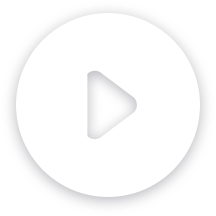
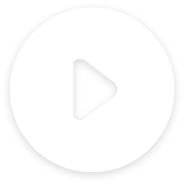
视频播放按钮调整成64rpx

diff --git a/src/pages/opus/videoplay.vue b/src/pages/opus/videoplay.vue
@@ -5,7 +5,7 @@
         <view v-if="index == pageData.current" @click="handleVideo(index)" class="w-screen h-screen">
           <video autoplay class="w-screen h-screen fixed" :id="'video'+index" title="产品介绍" :src="item"  loop  :controls="false" :show-center-play-btn="true" :show-play-btn="false" :show-fullscreen-btn="false" @error="videoErrorCallback">
           </video>
-          <view v-if="pageData.status == 1" class="icon_play w-full h-full absolute w-50 h-50"><image class="w-50 h-50" src="@/static/opus/icon_play.png"/></view>
+          <view v-if="pageData.status == 1" class="icon_play w-full h-full absolute w-50 h-50"><image class="w-64 h-64" src="@/static/opus/icon_play.png"/></view>
         </view>
       </swiper-item>
     </swiper>
@@ -75,7 +75,7 @@ const videoErrorCallback = ()=>{
 
 <style lang="scss" scoped>
 .icon_play {
-  top:calc(50% - 50rpx);
-  left:calc(50% - 50rpx);
+  top:calc(50% - 64rpx);
+  left:calc(50% - 64rpx);
 }
 </style>

diff --git a/src/pages/opus/components/opusContentInfo.vue b/src/pages/opus/components/opusContentInfo.vue
@@ -18,7 +18,7 @@
                 <view v-if="element.name" class="bg-[rgba(0,0,0,0.5)] absolute left-5 bottom-5 px-10 text-white text-12 rounded">
                   <uni-icons type="location-filled" size="16"></uni-icons>{{element.name}} {{computedLocation(element.x,element.y)}}<!--(距您 {{element.name}})-->
                 </view>
-                <view class="icon_play w-full h-full absolute w-50 h-50"><image class="w-50 h-50" src="@/static/opus/icon_play.png"/></view>
+                <view class="icon_play w-full h-full absolute w-50 h-50"><image class="w-64 h-64" src="@/static/opus/icon_play.png"/></view>
               </view>
             </view>
             <view v-if="element.itemType == 4">
@@ -85,8 +85,8 @@ const computedLocation = computed({
 <style scoped lang="scss">
 .items {
   .icon_play {
-    top:calc(50% - 50rpx);
-    left:calc(50% - 50rpx);
+    top:calc(50% - 64rpx);
+    left:calc(50% - 64rpx);
   }
 }
 </style>

diff --git a/src/pages/safeguard/safeguarddetail.vue b/src/pages/safeguard/safeguarddetail.vue
@@ -30,7 +30,7 @@
       <text>现场视频：</text>
       <view class="relative" v-for="(item,index) in pageData.data.video" :key="index" @click="previewMedia(item.address)">
         <image :src="item.cover" class="rounded-8 iconplayphoto" mode="widthFix"/>
-        <view class="icon_play w-full h-full absolute w-50 h-50"><image class="w-50 h-50" src="@/static/opus/icon_play.png"/></view>
+        <view class="icon_play w-full h-full absolute w-50 h-50"><image class="w-64 h-64" src="@/static/opus/icon_play.png"/></view>
       </view>
     </view>
     <view class="box">
@@ -192,8 +192,8 @@ const playAudio = (type,item) =>{
       left:0;
       image{
         position: absolute;
-        top:calc(50% - 50rpx);
-        left:calc(50% - 50rpx);
+        top:calc(50% - 64rpx);
+        left:calc(50% - 64rpx);
       }
     }
     .audio-box{

diff --git a/src/components/index/dtVideo.vue b/src/components/index/dtVideo.vue
@@ -6,7 +6,7 @@
 					<video autoplay class="w-screen h-screen fixed" :id="'video' + index" :src="item.cover.content" loop :controls="false" :show-center-play-btn="true" :show-play-btn="false" :show-fullscreen-btn="false" @error="videoErrorCallback">
 					</video>
 					<view v-if="pageData.status == 1" class="icon_play w-full h-full absolute w-50 h-50">
-						<image class="w-50 h-50" src="@/static/opus/icon_play.png" />
+						<image class="w-64 h-64" src="@/static/opus/icon_play.png" />
 					</view>
 					<view class="info">
 						<view class="title">@{{ item.title }}</view>
@@ -277,8 +277,8 @@
 
 <style lang="scss" scoped>
 	.icon_play {
-		top: calc(50% - 50rpx);
-		left: calc(50% - 50rpx);
+		top: calc(50% - 64rpx);
+		left: calc(50% - 64rpx);
 	}
 
 	.swiper {
